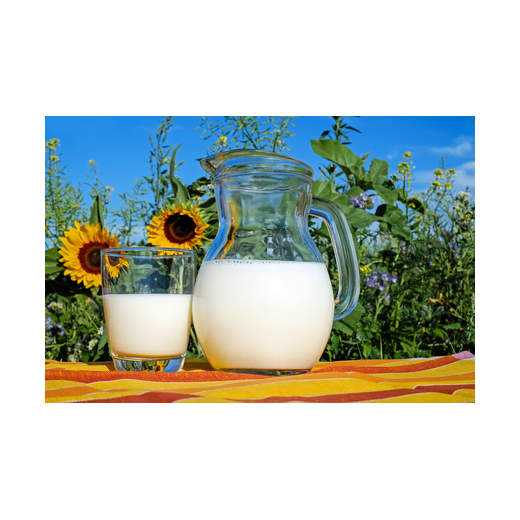
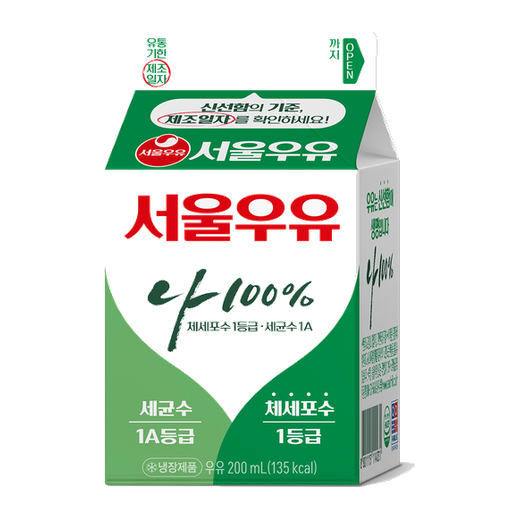
Use local milk cutout in mart game

diff --git a/index.html b/index.html
@@ -76,7 +76,7 @@
       });
       window.addEventListener('load', () => {
         /* sw.js에도 v를 붙이지 않으면 Safari가 옛 서비스 워커를 붙잡는 경우가 있음 */
-        navigator.serviceWorker.register('./sw.js?v=308', { updateViaCache: 'none' })
+        navigator.serviceWorker.register('./sw.js?v=309', { updateViaCache: 'none' })
           .then(function (reg) {
             if (reg.waiting) reg.waiting.postMessage({ type: 'SKIP_WAITING' });
             reg.addEventListener('updatefound', function () {

diff --git a/sw.js b/sw.js
@@ -4,7 +4,7 @@
  * On first visit, pre-caches all images so subsequent loads are instant.
  */
 
-const CACHE_VERSION = 'v308';
+const CACHE_VERSION = 'v309';
 const CACHE_NAME = `jaemin-aac-${CACHE_VERSION}`;
 
 self.addEventListener('message', (event) => {